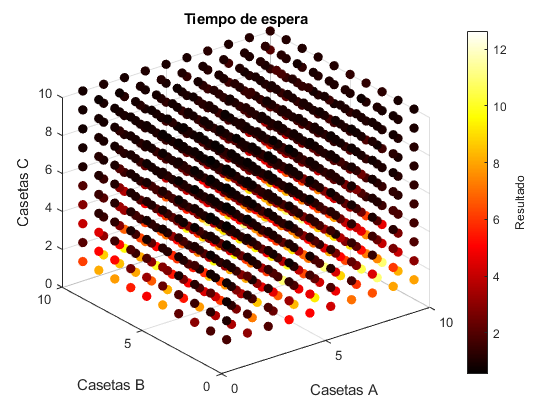
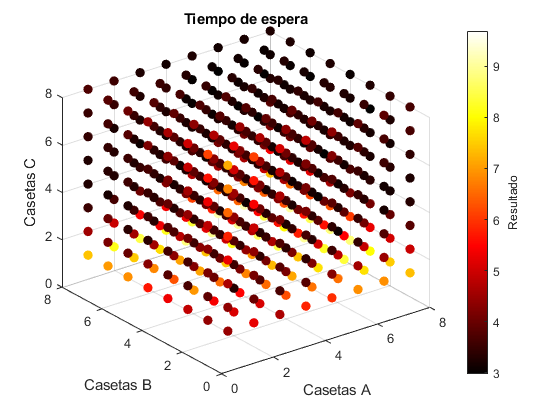
final final no va mas

diff --git a/finalEmb.m b/finalEmb.m
@@ -10,7 +10,7 @@ peaje1=[15,3,2];
 peaje2=[8,2,1];
 peaje3=[4,1,0];
 
-bestPeaje=[8,1,6];
+bestPeaje=[18,6,6];
 
 %1 fin de semana 
 %[tEsperaProm, nCarros, tUserTag, tsA] = simularPico(peaje1, 0.1);
@@ -26,15 +26,15 @@ bestPeaje=[8,1,6];
 %display(tEsperaPromedio)
 %display(nCarrosEnCola)
 %graficarTiemposCasetas(casetas)
-%graficarCasetaUnica(casetas, 3, "Tipo A")
+%graficarCasetaUnica(casetas, 1, "Tipo C")
 
 
 %Barrer todas las combinaciones
-[finalt,finalc]=busqueda();
+%[finalt,finalc]=busqueda();
 %graficar(finalt,"Tiempo de espera")
-%graficar(finalc,"Número de carros")
-%graficarSecciones(finalt,0)
-%graficarSecciones(finalc,0)
+graficar(finalc,"Tamaño de cola")
+%graficarSecciones(finalt,1)
+%graficarSecciones(finalc,1)
 
 
 %Esta función hace el grafico de barras de un único peaje con respecto a
@@ -110,10 +110,10 @@ end
 % Graficar secciones de los 52 fines de semana
 function graficarSecciones(resultado, tipo)
 
-% Crear tres arreglos entre 1 y 10
-arreglo1 = 1:10;
-arreglo2 = 1:10;
-arreglo3 = 1:10;
+% Crear tres arreglos entre 1 y 8
+arreglo1 = 1:8;
+arreglo2 = 1:8;
+arreglo3 = 1:8;
 
 % Obtener todas las combinaciones posibles
 combinaciones = combvec(arreglo1, arreglo2, arreglo3);
@@ -127,7 +127,7 @@ if(tipo)
 colorbarHandle = colorbar;
 end
 
-for i = 1:10
+for i = 1:8
     % Seleccionar valores correspondientes a una sección
     indices = (combinaciones(3, :) == i);
 
@@ -312,8 +312,8 @@ ncarros=[ncarros nCarrosEnCola];
 
 end
 
-tEsperaProm=mean(tesperaprom);
-nCarros=mean(ncarros);
+tEsperaProm=mean(tesperaprom, "omitnan");
+nCarros=mean(ncarros, "omitnan");
 
 end
 
@@ -323,9 +323,9 @@ end
 function graficar(resultado, titulo)
 
  % Crea tres arreglos entre 1 y 10
-    casetaA = 1:10;
-    casetaB = 1:10;
-    casetaC = 1:10;
+    casetaA = 1:8;
+    casetaB = 1:8;
+    casetaC = 1:8;
 
 % Obtiene todas las combinaciones posibles
     combinaciones = combvec(casetaA, casetaB, casetaC);
@@ -352,9 +352,9 @@ end
 %*********************************************************************************
 function [tproms,cproms]= busqueda()
     % Crea tres arreglos entre 1 y 10
-    casetaA = 1:10;
-    casetaB = 1:10;
-    casetaC = 1:10;
+    casetaA = 1:8;
+    casetaB = 1:8;
+    casetaC = 1:8;
    
     %Vectores para almacenar resultados de simulación
     promts=[];
